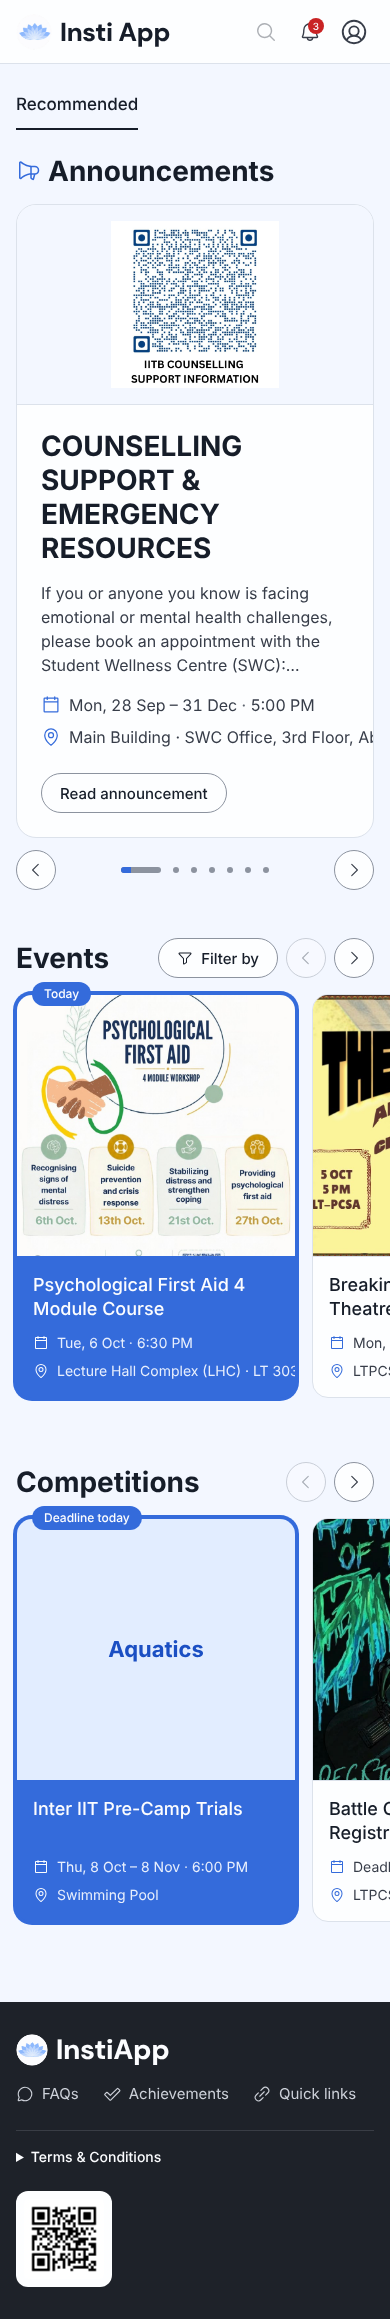
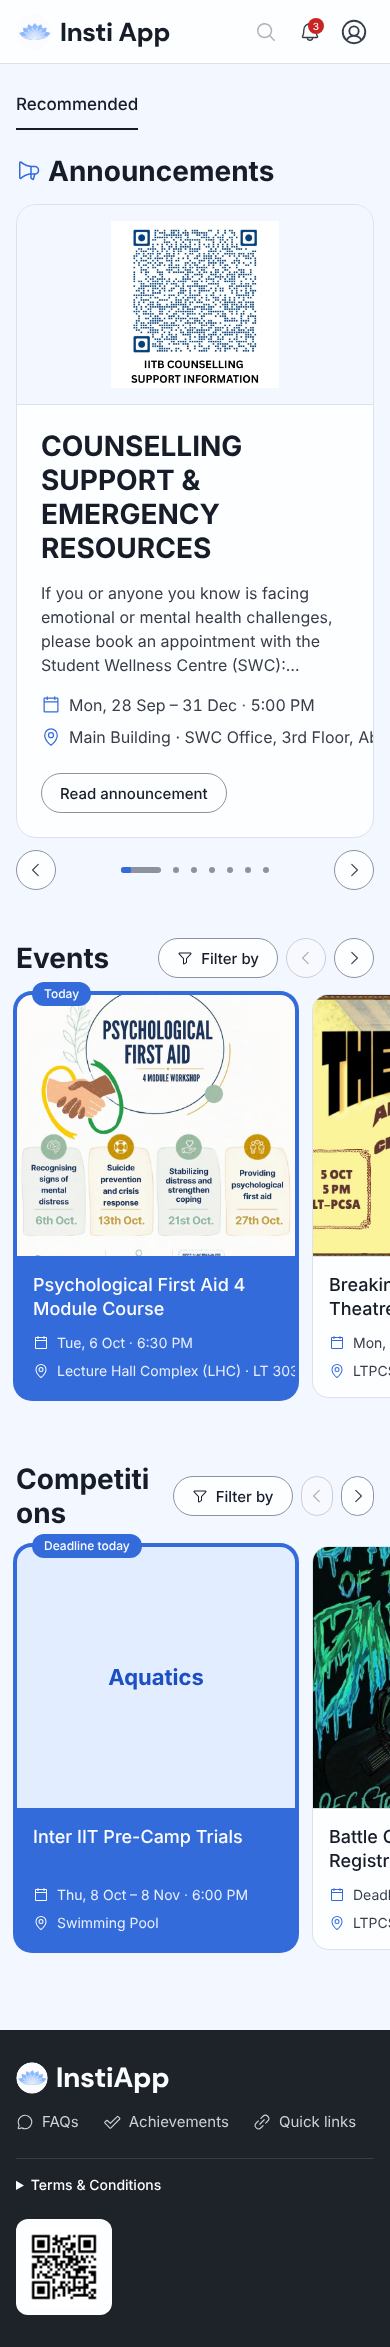
Add Filter by to Competitions; fix filter sheet sideways shift
- Competitions row gets its own Filter by button and sheet (day + clubs),
  with filter state kept per row so Events and Competitions filter
  independently. Day chips hide when the row has no dated items.
- Fieldsets now have min-width: 0; the club list was pushing the sheet's
  content wider than the sheet, so focusing the search box scrolled it
  sideways and hid the left padding (pre-existing, Events sheet too).

Claude-Session: https://claude.ai/code/session_01UGSq7D7wJQbmhDDKoKNt35

diff --git a/src/pages/HomePage.tsx b/src/pages/HomePage.tsx
@@ -9,7 +9,7 @@ import { TopBar } from '../components/TopBar'
 import { CountBadge, Page } from '../components/ui'
 import type { Role } from '../data/types'
 import { activeFilterCount, applyFilters, byType, feedItems, queueFor, weekdaysOf } from '../lib/events'
-import { useApp } from '../store/useApp'
+import { useApp, type FilterKind } from '../store/useApp'
 
 type Tab = 'recommended' | 'status' | 'approvals'
 
@@ -33,8 +33,9 @@ export function HomePage() {
   const pendingForGsec = useMemo(() => queueFor(events, 'gsec').filter((e) => e.status === 'pending').length, [events])
   const rejectedForGsha = useMemo(() => queueFor(events, 'gsha').filter((e) => e.status === 'rejected').length, [events])
   const allEvents = byType(events, 'event')
-  const evs = applyFilters(allEvents, filters)
-  const comps = byType(events, 'competition')
+  const evs = applyFilters(allEvents, filters.event)
+  const allComps = byType(events, 'competition')
+  const comps = applyFilters(allComps, filters.competition)
   const reviewing = tab !== 'recommended'
   const waitingByType = useMemo(() => {
     const w = { event: 0, competition: 0, announcement: 0 }
@@ -74,24 +75,28 @@ export function HomePage() {
                 title="Events"
                 items={evs}
                 testId="events-row"
-                filterCount={activeFilterCount(filters)}
+                filterCount={activeFilterCount(filters.event)}
                 onFilter={() => openDrawer('filter')}
-                empty={
-                  activeFilterCount(filters) ? (
-                    <p className="py-8 text-sm text-muted">No events match these filters. <button className="font-medium text-accent-strong underline underline-offset-4" onClick={() => useApp.getState().clearFilters()}>Clear filters</button></p>
-                  ) : (
-                    <EmptyRow kind="event" role={role} waiting={waitingByType.event} />
-                  )
-                }
+                filterTestId="filter-by"
+                empty={activeFilterCount(filters.event) ? <NoMatches kind="event" /> : <EmptyRow kind="event" role={role} waiting={waitingByType.event} />}
               />
-              <CardRow title="Competitions" items={comps} testId="competitions-row" empty={<EmptyRow kind="competition" role={role} waiting={waitingByType.competition} />} />
+              <CardRow
+                title="Competitions"
+                items={comps}
+                testId="competitions-row"
+                filterCount={activeFilterCount(filters.competition)}
+                onFilter={() => openDrawer('filter-competitions')}
+                filterTestId="filter-by-competitions"
+                empty={activeFilterCount(filters.competition) ? <NoMatches kind="competition" /> : <EmptyRow kind="competition" role={role} waiting={waitingByType.competition} />}
+              />
             </Page>
           </main>
           <Footer />
         </>
       )}
 
-      {drawer === 'filter' && <FilterSheet onClose={closeDrawer} resultCount={evs.length} days={weekdaysOf(allEvents)} />}
+      {drawer === 'filter' && <FilterSheet kind="event" onClose={closeDrawer} resultCount={evs.length} days={weekdaysOf(allEvents)} />}
+      {drawer === 'filter-competitions' && <FilterSheet kind="competition" onClose={closeDrawer} resultCount={comps.length} days={weekdaysOf(allComps)} />}
     </>
   )
 }
@@ -117,6 +122,15 @@ function Tabs({ role, active, pending, rejected }: { role: Role; active: Tab; pe
         </Link>
       ))}
     </nav>
+  )
+}
+
+function NoMatches({ kind }: { kind: FilterKind }) {
+  return (
+    <p className="py-8 text-sm text-muted">
+      No {kind === 'event' ? 'events' : 'competitions'} match these filters.{' '}
+      <button className="font-medium text-accent-strong underline underline-offset-4" onClick={() => useApp.getState().clearFilters(kind)}>Clear filters</button>
+    </p>
   )
 }
 

diff --git a/src/store/useApp.ts b/src/store/useApp.ts
@@ -18,6 +18,9 @@ export interface Filters {
   search: string
 }
 
+/** Feed rows that have their own Filter by sheet. */
+export type FilterKind = 'event' | 'competition'
+
 /** What an Undo needs to put back. */
 export type Snapshot = Pick<InstiEvent, 'id' | 'status' | 'rejectionComment' | 'history'>
 
@@ -31,7 +34,7 @@ interface AppState {
   role: Role
   events: InstiEvent[]
   reactions: Record<string, { interested?: boolean; going?: boolean }>
-  filters: Filters
+  filters: Record<FilterKind, Filters>
   toast: Toast | null
   setRole: (r: Role) => void
   toggleReaction: (id: string, kind: 'interested' | 'going') => void
@@ -43,20 +46,23 @@ interface AppState {
   restore: (s: Snapshot) => void
   showToast: (t: Omit<Toast, 'id'>) => void
   dismissToast: () => void
-  toggleDay: (d: Day) => void
-  toggleClub: (c: string) => void
-  setSearch: (s: string) => void
-  clearFilters: () => void
+  toggleDay: (k: FilterKind, d: Day) => void
+  toggleClub: (k: FilterKind, c: string) => void
+  setSearch: (k: FilterKind, s: string) => void
+  clearFilters: (k: FilterKind) => void
   resetDemo: () => void
 }
 
 const emptyFilters: Filters = { days: [], clubs: [], search: '' }
+const noFilters: Record<FilterKind, Filters> = { event: emptyFilters, competition: emptyFilters }
 const step = (kind: HistoryEntry['kind'], by: HistoryEntry['by'], comment?: string): HistoryEntry => ({ kind, by, comment, at: Date.now() })
 const snap = (e: InstiEvent): Snapshot => ({ id: e.id, status: e.status, rejectionComment: e.rejectionComment, history: e.history })
 
 export const useApp = create<AppState>()(
   persist(
     (set, get) => {
+      const setFilters = (k: FilterKind, fn: (f: Filters) => Partial<Filters>) =>
+        set((s) => ({ filters: { ...s.filters, [k]: { ...s.filters[k], ...fn(s.filters[k]) } } }))
       const patch = (id: string, fn: (e: InstiEvent) => Partial<InstiEvent>) =>
         set((s) => ({ events: s.events.map((e) => (e.id === id ? { ...e, ...fn(e) } : e)) }))
 
@@ -64,7 +70,7 @@ export const useApp = create<AppState>()(
         role: 'student',
         events: buildSeed(),
         reactions: {},
-        filters: emptyFilters,
+        filters: noFilters,
         toast: null,
         setRole: (role) => set({ role }),
         toggleReaction: (id, kind) =>
@@ -109,17 +115,11 @@ export const useApp = create<AppState>()(
         restore: (s) => patch(s.id, () => ({ status: s.status, rejectionComment: s.rejectionComment, history: s.history })),
         showToast: (t) => set({ toast: { ...t, id: Date.now() } }),
         dismissToast: () => set({ toast: null }),
-        toggleDay: (d) =>
-          set((s) => ({
-            filters: { ...s.filters, days: s.filters.days.includes(d) ? s.filters.days.filter((x) => x !== d) : [...s.filters.days, d] },
-          })),
-        toggleClub: (c) =>
-          set((s) => ({
-            filters: { ...s.filters, clubs: s.filters.clubs.includes(c) ? s.filters.clubs.filter((x) => x !== c) : [...s.filters.clubs, c] },
-          })),
-        setSearch: (search) => set((s) => ({ filters: { ...s.filters, search } })),
-        clearFilters: () => set({ filters: emptyFilters }),
-        resetDemo: () => set({ events: buildSeed(), reactions: {}, filters: emptyFilters, toast: null }),
+        toggleDay: (k, d) => setFilters(k, (f) => ({ days: f.days.includes(d) ? f.days.filter((x) => x !== d) : [...f.days, d] })),
+        toggleClub: (k, c) => setFilters(k, (f) => ({ clubs: f.clubs.includes(c) ? f.clubs.filter((x) => x !== c) : [...f.clubs, c] })),
+        setSearch: (k, search) => setFilters(k, () => ({ search })),
+        clearFilters: (k) => setFilters(k, () => emptyFilters),
+        resetDemo: () => set({ events: buildSeed(), reactions: {}, filters: noFilters, toast: null }),
       }
     },
     {

diff --git a/src/components/FilterSheet.tsx b/src/components/FilterSheet.tsx
@@ -1,43 +1,45 @@
 import { Check, MagnifyingGlass } from '@phosphor-icons/react'
 import { CLUBS } from '../data/seed'
 import { clubMatches } from '../lib/events'
-import { useApp, type Day } from '../store/useApp'
+import { useApp, type Day, type FilterKind } from '../store/useApp'
 import { Sheet } from './Sheet'
 import { ClubMark } from './ui'
 
 
 
 /**
- * 143:874 rebuilt as a sheet. Day chips and clubs filter the Events row.
+ * 143:874 rebuilt as a sheet. Day chips and clubs filter one feed row (Events or Competitions);
+ * each row keeps its own selection.
  * The Figma file drew eight identical "Pixels" tiles; this lists each club once.
  * The Date/Month and time fields are dropped — no event data backs them.
  * Day chips are the weekdays events in the feed start on (live data, so they change with each sync).
  */
-export function FilterSheet({ onClose, resultCount, days }: { onClose: () => void; resultCount: number; days: Day[] }) {
-  const f = useApp((s) => s.filters)
-  const toggleDay = useApp((s) => s.toggleDay)
-  const toggleClub = useApp((s) => s.toggleClub)
-  const setSearch = useApp((s) => s.setSearch)
-  const clear = useApp((s) => s.clearFilters)
+export function FilterSheet({ kind, onClose, resultCount, days }: { kind: FilterKind; onClose: () => void; resultCount: number; days: Day[] }) {
+  const f = useApp((s) => s.filters[kind])
+  const toggleDay = (d: Day) => useApp.getState().toggleDay(kind, d)
+  const toggleClub = (c: string) => useApp.getState().toggleClub(kind, c)
+  const setSearch = (q: string) => useApp.getState().setSearch(kind, q)
+  const clear = () => useApp.getState().clearFilters(kind)
+  const noun = kind === 'event' ? ['event', 'events'] : ['competition', 'competitions']
   const clubs = Object.keys(CLUBS).filter((c) => clubMatches(c, f.search))
   const active = f.days.length + f.clubs.length
 
   return (
     <Sheet
-      title="Filter by"
+      title={kind === 'event' ? 'Filter events' : 'Filter competitions'}
       onClose={onClose}
       testId="filter-panel"
       footer={
         <div className="flex items-center justify-between gap-3">
           <button className="btn btn-ghost" onClick={clear} disabled={!active} data-testid="filter-clear">Clear all</button>
           <button className="btn btn-primary" onClick={onClose} data-testid="filter-apply">
-            Show {resultCount} {resultCount === 1 ? 'event' : 'events'}
+            Show {resultCount} {noun[resultCount === 1 ? 0 : 1]}
           </button>
         </div>
       }
     >
       <div className="grid gap-8 px-6 py-6">
-        <fieldset>
+        {days.length > 0 && <fieldset>
           <legend className="field-label">Day</legend>
           <div className="flex flex-wrap gap-2">
             {days.map((d) => {
@@ -56,7 +58,7 @@ export function FilterSheet({ onClose, resultCount, days }: { onClose: () => voi
               )
             })}
           </div>
-        </fieldset>
+        </fieldset>}
 
         <fieldset>
           <legend className="field-label">Clubs</legend>

diff --git a/src/components/Browse.tsx b/src/components/Browse.tsx
@@ -171,8 +171,8 @@ function useReducedMotion() {
 
 /** A titled row of cards: arrows + scroll-snap, no visible scrollbar. */
 export function CardRow({
-  title, items, testId, filterCount, onFilter, empty,
-}: { title: string; items: InstiEvent[]; testId: string; filterCount?: number; onFilter?: () => void; empty?: ReactNode }) {
+  title, items, testId, filterCount, onFilter, filterTestId, empty,
+}: { title: string; items: InstiEvent[]; testId: string; filterCount?: number; onFilter?: () => void; filterTestId?: string; empty?: ReactNode }) {
   const ref = useRef<HTMLDivElement>(null)
   const [edge, setEdge] = useState({ start: true, end: false })
   const update = () => {
@@ -192,7 +192,7 @@ export function CardRow({
       <div className="flex items-center gap-2">
         <h2 className="mr-auto text-xl font-bold">{title}</h2>
         {onFilter && (
-          <button className="btn btn-secondary" onClick={onFilter} data-testid="filter-by">
+          <button className="btn btn-secondary" onClick={onFilter} aria-label={`Filter by: ${title}${filterCount ? `, ${filterCount} active` : ''}`} data-testid={filterTestId}>
             <Funnel size={16} aria-hidden />
             Filter by
             {!!filterCount && <span className="tnum grid size-5 place-items-center rounded-pill bg-accent text-xs text-accent-ink">{filterCount}</span>}

diff --git a/qa/demo-loop.spec.ts b/qa/demo-loop.spec.ts
@@ -135,6 +135,18 @@ test('feed = live insti.app posts + restored Figma posts; filters; sheets close'
   await expect(events).toHaveCount(1)
   await expect(events.first()).toContainText('Peer Connect: A Listening Listening Circle for PhD')
 
+  // Competitions have their own filter; the Events filter above is left alone.
+  await page.getByTestId('filter-by-competitions').click()
+  await page.getByTestId('club-tile').filter({ hasText: 'Pixels' }).click()
+  const m = Number((await page.getByTestId('filter-apply').textContent())!.match(/\d+/)![0])
+  await page.getByTestId('filter-apply').click()
+  await expect(comps).toHaveCount(m)
+  await expect(events).toHaveCount(1)
+  await page.getByTestId('filter-by-competitions').click()
+  await page.getByTestId('filter-clear').click()
+  await page.getByTestId('filter-apply').click()
+  await expect(comps).toHaveCount(liveCount('competition') + 4)
+
   // Announcements slide in the hero slot: live notices + the four Figma ones.
   const carousel = page.getByTestId('announcements-carousel')
   const slides = carousel.getByTestId('announcement-slide')

diff --git a/qa/shots.spec.ts b/qa/shots.spec.ts
@@ -18,6 +18,7 @@ const SHOTS: Shot[] = [
   { name: 'event-gsec-1440', path: `/event/${LIVE.pendingSubmission}`, role: 'gsec', ...LAPTOP },
   { name: 'form-gsha-1440', path: '/event/new', role: 'gsha', ...LAPTOP, full: true },
   { name: 'filter-1440', path: '/home?drawer=filter', role: 'student', ...LAPTOP },
+  { name: 'filter-competitions-1440', path: '/home?drawer=filter-competitions', role: 'student', ...LAPTOP },
   { name: 'approvals-gsec-1280', path: '/home?tab=approvals', role: 'gsec', w: 1280, h: 800 },
   { name: 'home-student-390', path: '/home', role: 'student', w: 390, h: 844, full: true },
   { name: 'event-student-390', path: `/event/${LIVE.withPoster.id}`, role: 'student', w: 390, h: 844, full: true },

diff --git a/src/index.css b/src/index.css
@@ -21,6 +21,8 @@
   }
   h1, h2, h3 { color: var(--color-ink); font-family: var(--font-display); font-style: normal; overflow-wrap: anywhere; min-width: 0; }
   input, textarea, select { font: inherit; color: inherit; }
+  /* Fieldsets default to min-width: min-content, which lets long rows push a sheet wider than itself. */
+  fieldset { min-width: 0; }
   :focus { outline: none; }
   :focus-visible { outline: 2px solid var(--color-focus); outline-offset: 2px; }
   ::selection { background: var(--color-accent-tint); }
